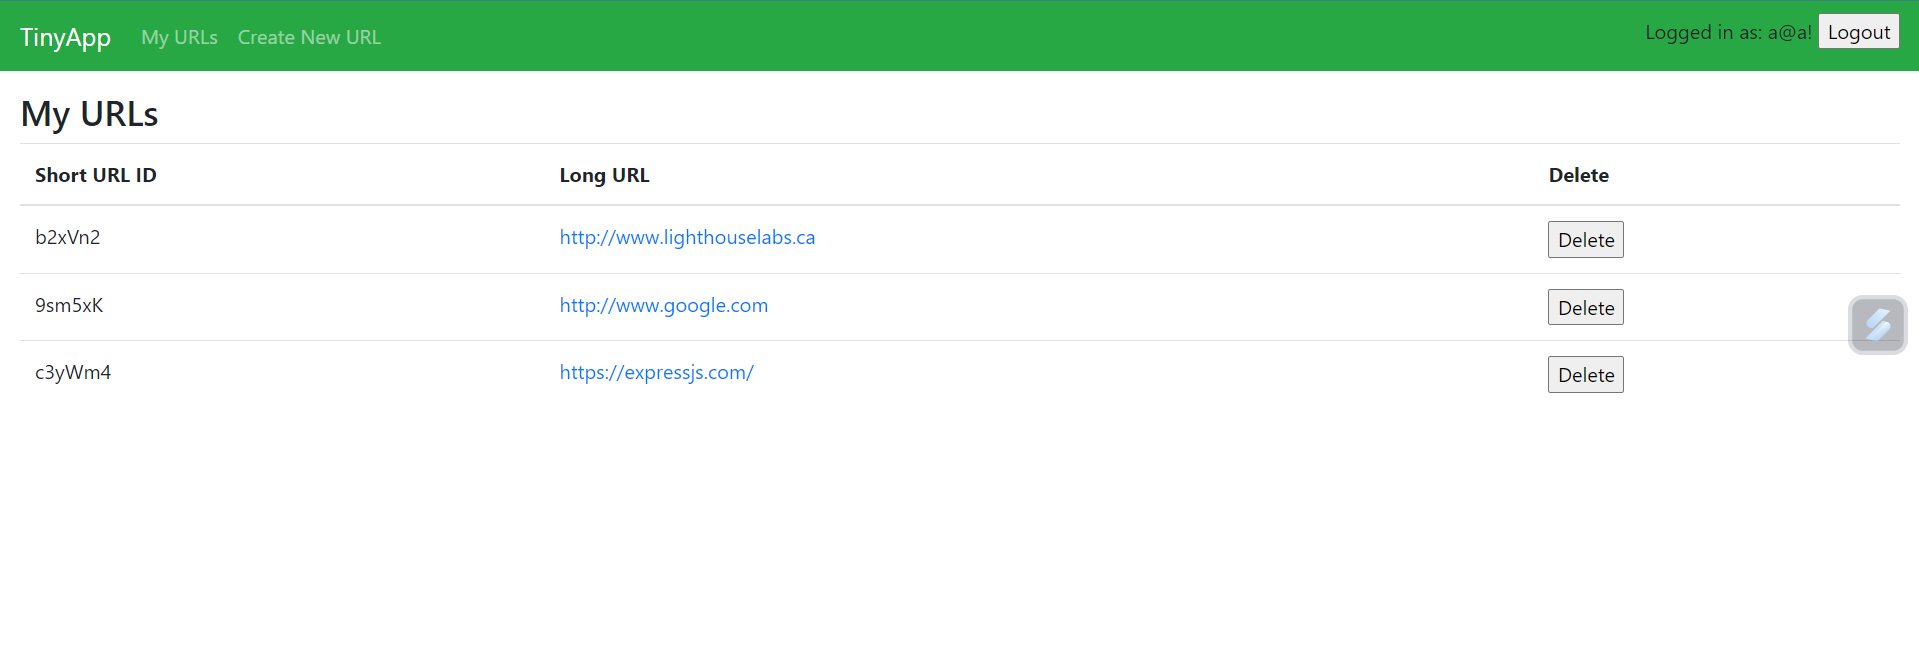
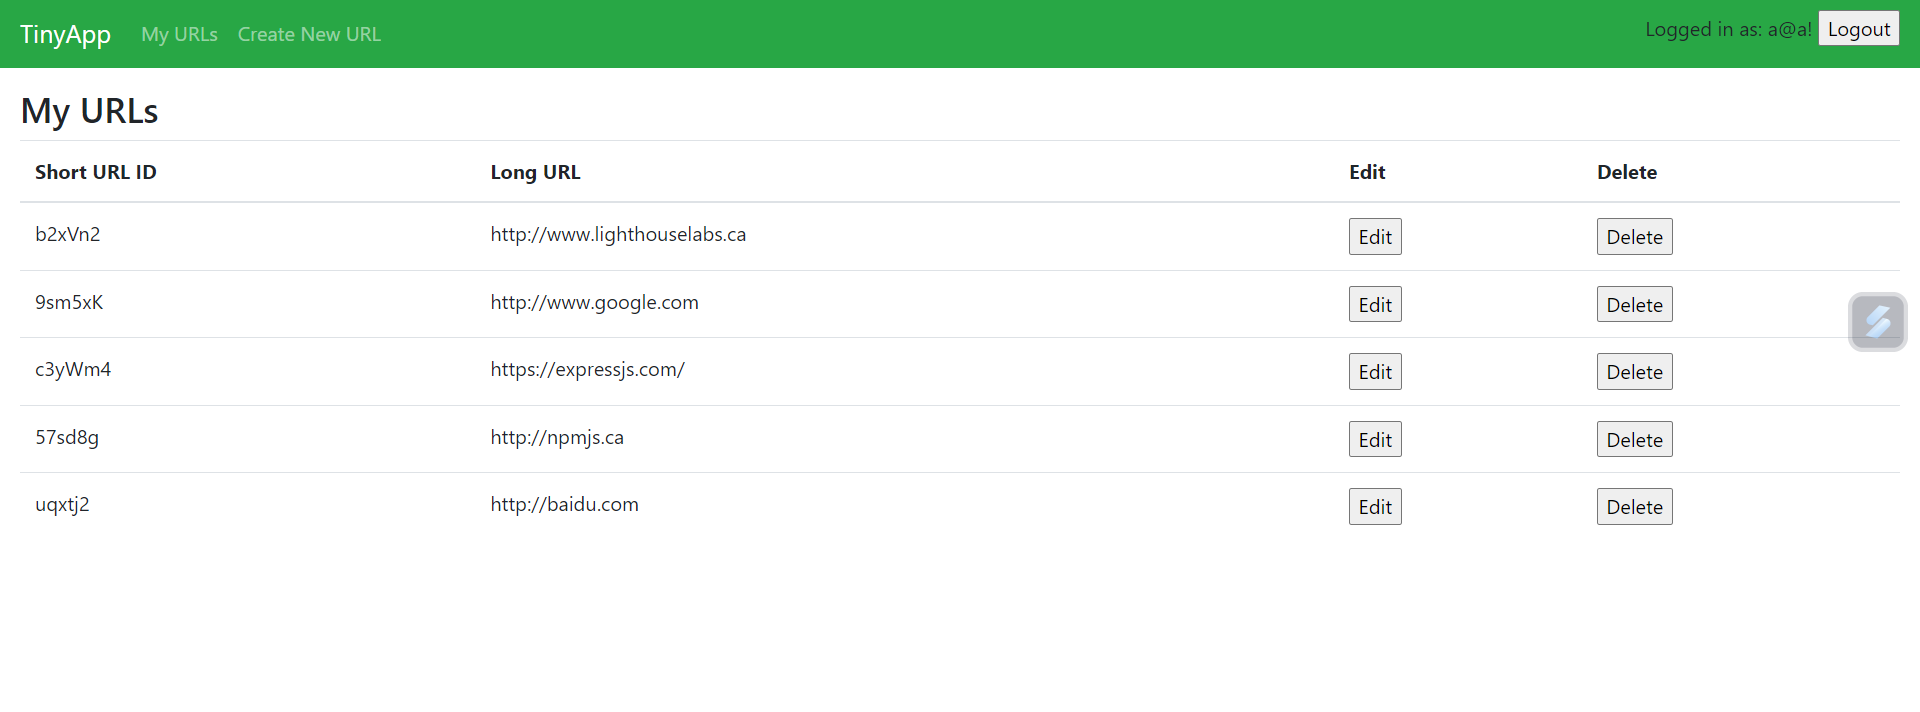
updated according to review

diff --git a/express_server.js b/express_server.js
@@ -1,9 +1,11 @@
 const morgan = require('morgan');
 const express = require("express");
-const app = express();
-const PORT = 8080;
 const cookieSession = require('cookie-session');
 const bcrypt = require('bcryptjs');
+const { urlDatabase, users } = require("./database");
+const app = express();
+const PORT = 8080;
+
 const { generateRandomString,
   getUserByEmail,
   getUserNameByID,
@@ -22,42 +24,6 @@ app.use(cookieSession({
 
 const urlIDLength = 6;
 const userIDLength = 13;
-const urlDatabase = {
-  "b2xVn2": {
-    longURL: "http://www.lighthouselabs.ca",
-    userID: "user3RandomID",
-  },
-  "9sm5xK": {
-    longURL: "http://www.google.com",
-    userID: "user3RandomID",
-  },
-  "8rc4wJ": {
-    longURL: "https://www.npmjs.com/",
-    userID: "user2RandomID",
-  },
-  "c3yWm4": {
-    longURL: "https://expressjs.com/",
-    userID: "user3RandomID",
-  },
-};
-const users = {
-  userRandomID: {
-    id: "userRandomID",
-    email: "user@example.com",
-    password: "$2a$10$0TpJRWm/RtfOBuKGH25c/OxPllh5jXn/HGPNTUklZ4t99EsICk5tS",
-  },
-  user2RandomID: {
-    id: "user2RandomID",
-    email: "user2@example.com",
-    password: "$2a$10$gqOlkhztQ.b30a6mwmWH3.y0MFbOng0dPmgW.B6.ISfvsYtro2a2W",
-  },
-  user3RandomID: {
-    id: "user3RandomID",
-    email: "a@a",
-    password: "$2a$10$EWCJ3UbIzNtcatdLA9IhF.URVwyzYoP269im9nk8Gc9pOk6ASn0L6",
-  },
-};
-
 
 /**
  * Function of dealing with POST
@@ -74,25 +40,24 @@ app.post("/urls", (req, res) => {
 
   if (!urlDatabase[newID]) {
     urlDatabase[newID] = {};
-    urlDatabase[newID].longURL = "http://" + req.body.longURL;
+    urlDatabase[newID].longURL = req.body.longURL.startsWith("http://") ? req.body.longURL : ("http://") + req.body.longURL;
     urlDatabase[newID].userID = req.session.user_id;
   }
 
-  // res.send(urlDatabase); // Respond with 'Ok' (we will replace this)
-  res.redirect('/urls');
+  res.redirect(`/urls/${newID}`);
 });
 
 app.post("/urls/:id/delete", (req, res) => {
   const url_id = req.params.id;
-  if (!req.session.user_id) return res.redirect('/login');
+  if (!req.session.user_id) return res.status(401).send("Please click here to <a href='/login'>login</a>!");
   if (urlDatabase[url_id] && urlDatabase[url_id].userID !== req.session.user_id) return res.status(400).send('This is not your URL');
 
   delete urlDatabase[url_id];
   return res.redirect('/urls');
 });
 
-app.post("/urls/:id/update", (req, res) => {
-  if (!req.session.user_id) return res.redirect('/login');
+app.post("/urls/:id/", (req, res) => {
+  if (!req.session.user_id) res.status(401).send("Please click here to <a href='/login'>login</a>!");
   if (urlDatabase[req.params.id] && urlDatabase[req.params.id].userID !== req.session.user_id) return res.status(400).send('This is not your URL');
 
   urlDatabase[req.params.id].longURL = req.body.longURL;
@@ -163,8 +128,7 @@ app.get("/", (req, res) => {
 });
 
 app.get("/urls", (req, res) => {
-  // If the user is not logged in, redirect GET /urls/new to GET /login
-  if (!req.session.user_id) return res.redirect('/login');
+  if (!req.session.user_id) return res.status(401).send("Please click here to <a href='/login'>login</a>!");
   const templateVars = {
     username: req.session.user_id ? getUserNameByID(req.session.user_id, users) : "",
     urls: urlsForUser(req.session.user_id, urlDatabase, users)

diff --git a/database.js b/database.js
@@ -1,0 +1,40 @@
+const urlDatabase = {
+  "b2xVn2": {
+    longURL: "http://www.lighthouselabs.ca",
+    userID: "user3RandomID",
+  },
+  "9sm5xK": {
+    longURL: "http://www.google.com",
+    userID: "user3RandomID",
+  },
+  "8rc4wJ": {
+    longURL: "https://www.npmjs.com/",
+    userID: "user2RandomID",
+  },
+  "c3yWm4": {
+    longURL: "https://expressjs.com/",
+    userID: "user3RandomID",
+  },
+};
+const users = {
+  userRandomID: {
+    id: "userRandomID",
+    email: "user@example.com",
+    password: "$2a$10$0TpJRWm/RtfOBuKGH25c/OxPllh5jXn/HGPNTUklZ4t99EsICk5tS",
+  },
+  user2RandomID: {
+    id: "user2RandomID",
+    email: "user2@example.com",
+    password: "$2a$10$gqOlkhztQ.b30a6mwmWH3.y0MFbOng0dPmgW.B6.ISfvsYtro2a2W",
+  },
+  user3RandomID: {
+    id: "user3RandomID",
+    email: "a@a",
+    password: "$2a$10$EWCJ3UbIzNtcatdLA9IhF.URVwyzYoP269im9nk8Gc9pOk6ASn0L6",
+  },
+};
+
+module.exports = {
+  urlDatabase,
+  users,
+};
